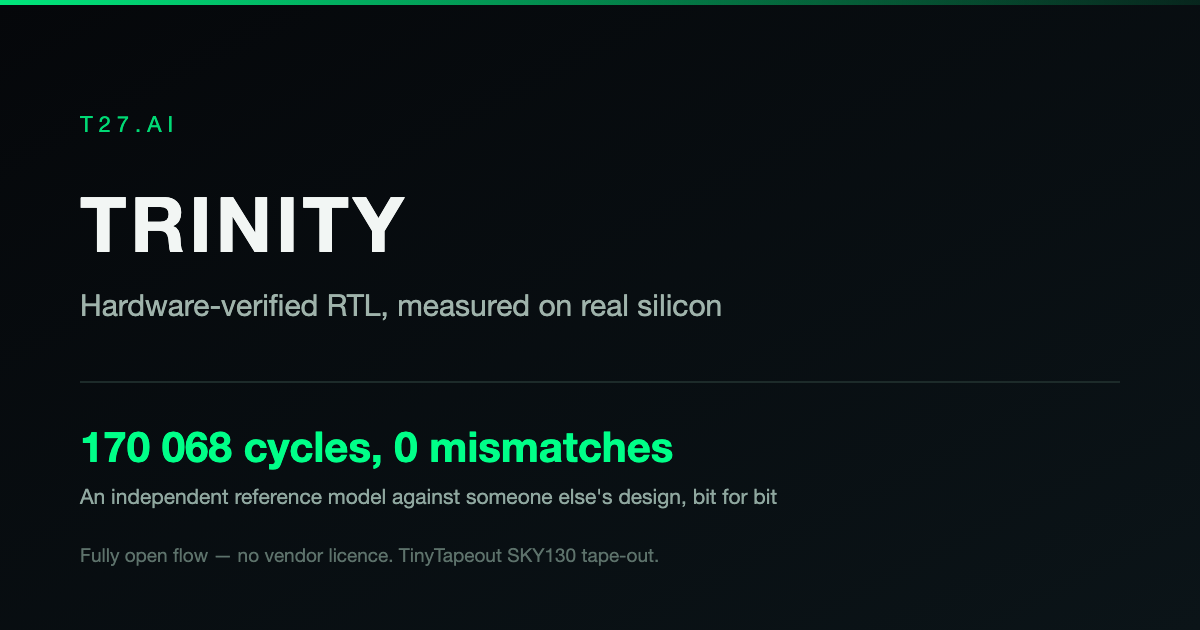
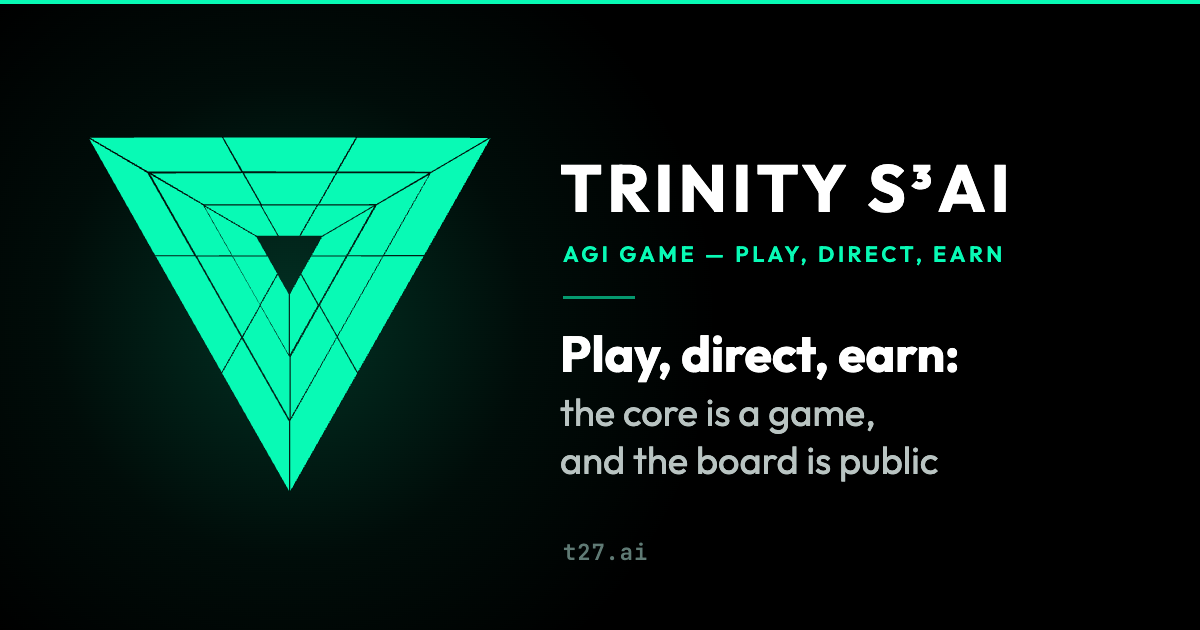
website: the t27.ai link preview says TRINITY S3AI, the AGI game, and the headline, with a new image
A link to t27.ai in a chat showed the old image and the GFTernary/TNF text.
index.html carried preview tags written for an earlier page, and
src/i18n/context.tsx held a third copy of those words and wrote them back over
the head on every load.

- lib/motto.ts is the one home of the name (SITE_NAME), the caption and the
  headline's clause; GameHero and the i18n provider read them from there.
- index.html: og:site_name TRINITY S3AI, og:title the caption, description the
  headline, og:image width/height/alt.
- og/og-image.svg + scripts/og-image.mjs render public/og-image.png (1200x630)
  in the site's own fonts under the favicon's triangle.
- qa/og-preview-contract.mjs (check:og-preview, in website-checks) holds the
  head, the provider, the SVG words, the mark and the PNG size to lib/motto.ts.

Closes #1303

diff --git a/apps/website/index.html b/apps/website/index.html
@@ -13,28 +13,36 @@
   <meta name="mobile-web-app-capable" content="yes" />
   <meta name="apple-mobile-web-app-capable" content="yes" />
   <meta name="apple-mobile-web-app-status-bar-style" content="black-translucent" />
-  <meta name="apple-mobile-web-app-title" content="TRINITY" />
-  <meta name="description"
-    content="GFTernary and TNF: a reference format pair for the ternary datapath. 52 theorems, 16 retractions, and every hardware number measured on an open flow on XC7A200T." />
+  <meta name="apple-mobile-web-app-title" content="TRINITY S³AI" />
+  <!-- What a link to t27.ai shows: site name, title, description, picture.
+       The same words as the page's first screen -- GameHero's wordmark, the
+       caption from lib/motto, the headline from lib/motto + GameHero -- and
+       qa/og-preview-contract.mjs fails if they part. Until 2026-10-04 these
+       tags described the GFTernary/TNF page the site used to open on. The
+       picture is og/og-image.svg, rendered by scripts/og-image.mjs. -->
+  <meta name="description" content="Play, direct, earn: the core is a game, and the board is public" />
   <meta name="theme-color" content="#000000" />
   <meta name="keywords" content="ternary computing, AI hardware, SU(3), quantum computing, FPGA, ASIC, energy efficient AI, BitNet, inference acceleration" />
   <meta name="author" content="Dmitrii Vasilev" />
-  <title>TRINITY | GFTernary · TNF — a reference format pair for the ternary datapath</title>
+  <title>TRINITY S³AI — AGI game — play, direct, earn</title>
   
   <!-- Open Graph / Facebook -->
   <meta property="og:type" content="website" />
   <meta property="og:url" content="https://t27.ai/" />
-  <meta property="og:title" content="TRINITY | GFTernary · TNF — a reference format pair for the ternary datapath" />
-  <meta property="og:description" content="GFTernary closes the weight, TNF closes the accumulator. GFTernary decoder 66 LUT against a 112 LUT bare wire; 463 LUT for a whole ternary neuron against binary32's 472. Area measured on a binary FPGA and identical across seeds; frequency verdicts flip between seeds, so no frequency ranking is claimed." />
+  <meta property="og:title" content="AGI game — play, direct, earn" />
+  <meta property="og:description" content="Play, direct, earn: the core is a game, and the board is public" />
   <meta property="og:image" content="https://t27.ai/og-image.png" />
-  <meta property="og:site_name" content="TRINITY" />
+  <meta property="og:image:width" content="1200" />
+  <meta property="og:image:height" content="630" />
+  <meta property="og:image:alt" content="TRINITY S³AI. AGI game — play, direct, earn. Play, direct, earn: the core is a game, and the board is public." />
+  <meta property="og:site_name" content="TRINITY S³AI" />
   <meta property="og:locale" content="en_US" />
 
   <!-- Twitter -->
   <meta name="twitter:card" content="summary_large_image" />
   <meta name="twitter:url" content="https://t27.ai/" />
-  <meta name="twitter:title" content="TRINITY | GFTernary · TNF — a reference format pair for the ternary datapath" />
-  <meta name="twitter:description" content="52 theorems, 16 retractions. GFTernary decoder 66 LUT against a 112 LUT bare wire on XC7A200T, open flow. Area is identical across all 5 seeds; frequency verdicts are not, so no frequency ranking is claimed." />
+  <meta name="twitter:title" content="AGI game — play, direct, earn" />
+  <meta name="twitter:description" content="Play, direct, earn: the core is a game, and the board is public" />
   <meta name="twitter:image" content="https://t27.ai/og-image.png" />
 
   <!-- Canonical URL -->

diff --git a/apps/website/src/i18n/context.tsx b/apps/website/src/i18n/context.tsx
@@ -2,6 +2,7 @@
 
 import React, { createContext, useContext, useState, useEffect } from 'react';
 import en from '../../messages/en.json';
+import { MOTTO, SITE_NAME } from '../lib/motto';
 
 const LANGS = ['en', 'ru'] as const;
 type Lang = typeof LANGS[number];
@@ -47,21 +48,23 @@ const store = {
   },
 };
 
-/* Заголовок и описание на каждый язык. Формулировки держатся тех же границ,
-   что и страница: пара форматов, 52 теоремы, железо измерено на
-   открытом потоке на XC7A200T — без «первого» и без обещаний кремния. */
+/* The tab title and the description, per language, are the page's own first
+   screen: the name, the motto's caption, the headline (lib/motto). They were
+   a third copy of the GFTernary/TNF claims, and this effect wrote them over
+   index.html's preview tags on every load (until 2026-10-04). og:title is the
+   caption alone: a preview prints og:site_name on its own line above it. */
 const SEO = {
-  en: {
-    locale: 'en_US',
-    title: 'TRINITY | TNF · GFTernary — a reference format for the ternary datapath',
-    description: 'TNF and GFTernary: a reference format pair for the ternary datapath. 52 theorems, and every hardware number measured on an open flow on XC7A200T.',
-  },
-  ru: {
-    locale: 'ru_RU',
-    title: 'TRINITY | TNF · GFTernary — референсная пара форматов для тернарного датапути',
-    description: 'TNF и GFTernary: референсная пара числовых форматов для тернарного датапути. 52 теоремы, и каждое аппаратное число измерено на открытом потоке на XC7A200T.',
-  },
+  en: { locale: 'en_US', ...seoOf(MOTTO.en) },
+  ru: { locale: 'ru_RU', ...seoOf(MOTTO.ru) },
 } as const
+
+function seoOf(m: { caption: string; headline: string; clause: string }) {
+  return {
+    title: `${SITE_NAME} — ${m.caption}`,
+    caption: m.caption,
+    description: `${m.headline}: ${m.clause}`,
+  }
+}
 
 export function I18nProvider({ children }: { children: React.ReactNode }) {
   const [lang, setLangState] = useState<Lang>(() => {
@@ -128,7 +131,7 @@ export function I18nProvider({ children }: { children: React.ReactNode }) {
       if (el) el.setAttribute(attr, val);
     };
     set('meta[name="description"]', 'content', meta.description);
-    set('meta[property="og:title"]', 'content', meta.title);
+    set('meta[property="og:title"]', 'content', meta.caption);
     set('meta[property="og:description"]', 'content', meta.description);
     set('meta[property="og:locale"]', 'content', meta.locale);
   }, [lang, mounted]);

diff --git a/apps/website/src/components/GameHero.tsx b/apps/website/src/components/GameHero.tsx
@@ -1,5 +1,5 @@
 import { useI18n } from '../i18n/context'
-import { MOTTO } from '../lib/motto'
+import { MOTTO, SITE_NAME } from '../lib/motto'
 import { TrinityLogo } from './TrinityLogo'
 import './GameHero.css'
 
@@ -15,20 +15,16 @@ import './GameHero.css'
 // The motto sits in both places a motto belongs: under the mark, as the mark's
 // caption, and at the head of the headline. It is imported rather than typed --
 // see lib/motto -- so the three verbs here are the same three words that name
-// the three moves further down the page. `title` is only the clause that
-// follows it.
+// the three moves further down the page, and the clause after the colon is
+// there too, because the whole headline is also the page's description.
 const COPY = {
   en: {
-    wordmark: 'TRINITY S³AI',
-    title: 'the core is a game, and the board is public',
     lede: 'Every cell on the map is a .t27 spec or the GitHub issue that pays for it. Take one, write the spec that generates it, compile it with the real compiler, send it. That is the whole contribution process, and it is the whole game.',
     play: 'How to play',
     map: 'Open the map',
     number: 'The number behind it →',
   },
   ru: {
-    wordmark: 'TRINITY S³AI',
-    title: 'ядро — это игра, и доска открыта',
     lede: 'Каждая сота на карте — спека .t27 или задача GitHub, которая за неё платит. Возьмите одну, напишите спеку, которая её порождает, скомпилируйте настоящим компилятором, отправьте. Это весь процесс контрибуции — и вся игра.',
     play: 'Как играть',
     map: 'Открыть карту',
@@ -46,11 +42,11 @@ export default function GameHero() {
     <section className="game-hero" id="hero" aria-labelledby="game-hero-title">
       <div className="game-hero-inner">
         <TrinityLogo withLabel={false} height="clamp(104px, 16vw, 190px)" />
-        <span className="game-hero-wordmark">{t.wordmark}</span>
+        <span className="game-hero-wordmark">{SITE_NAME}</span>
         {/* The mark's caption. Upper case is styling, so the words reach a
             screen reader as words rather than as an acronym. */}
         <span className="game-hero-motto">{motto.caption}</span>
-        <h1 id="game-hero-title">{motto.headline}: {t.title}</h1>
+        <h1 id="game-hero-title">{motto.headline}: {motto.clause}</h1>
         <p>{t.lede}</p>
         <div className="game-hero-actions">
           <a className="game-hero-primary" href="#/queen">

diff --git a/apps/website/src/lib/motto.ts b/apps/website/src/lib/motto.ts
@@ -10,6 +10,12 @@
 // an accepted turn is a non-transferable integer against a name, there is no
 // token, and that block says why there will not be one. The motto states the
 // move; the block states its terms. Neither is allowed to state them alone.
+// The name the mark carries, in every language: GameHero's wordmark, and the
+// site name a link preview prints above the caption (index.html og:site_name,
+// the tab title the i18n provider writes). qa/og-preview-contract.mjs holds
+// index.html and og/og-image.svg to this file.
+export const SITE_NAME = 'TRINITY S³AI'
+
 export const MOTTO = {
   en: {
     verbs: ['Play', 'Direct', 'Earn'] as const,
@@ -17,13 +23,18 @@ export const MOTTO = {
     // GameHero.css, not baked into the string, so the same words can be read
     // aloud by a screen reader as words.
     caption: 'AGI game — play, direct, earn',
-    // How the headline opens. The rest of the headline follows it in GameHero.
+    // How the headline opens.
     headline: 'Play, direct, earn',
+    // How it goes on, after a colon. The whole headline is also the page's
+    // description, in the head and in a link preview, so it lives here rather
+    // than in GameHero alone.
+    clause: 'the core is a game, and the board is public',
   },
   ru: {
     verbs: ['Играй', 'Управляй', 'Зарабатывай'] as const,
     caption: 'AGI-игра — играй, управляй, зарабатывай',
     headline: 'Играй, управляй, зарабатывай',
+    clause: 'ядро — это игра, и доска открыта',
   },
 } as const
 
